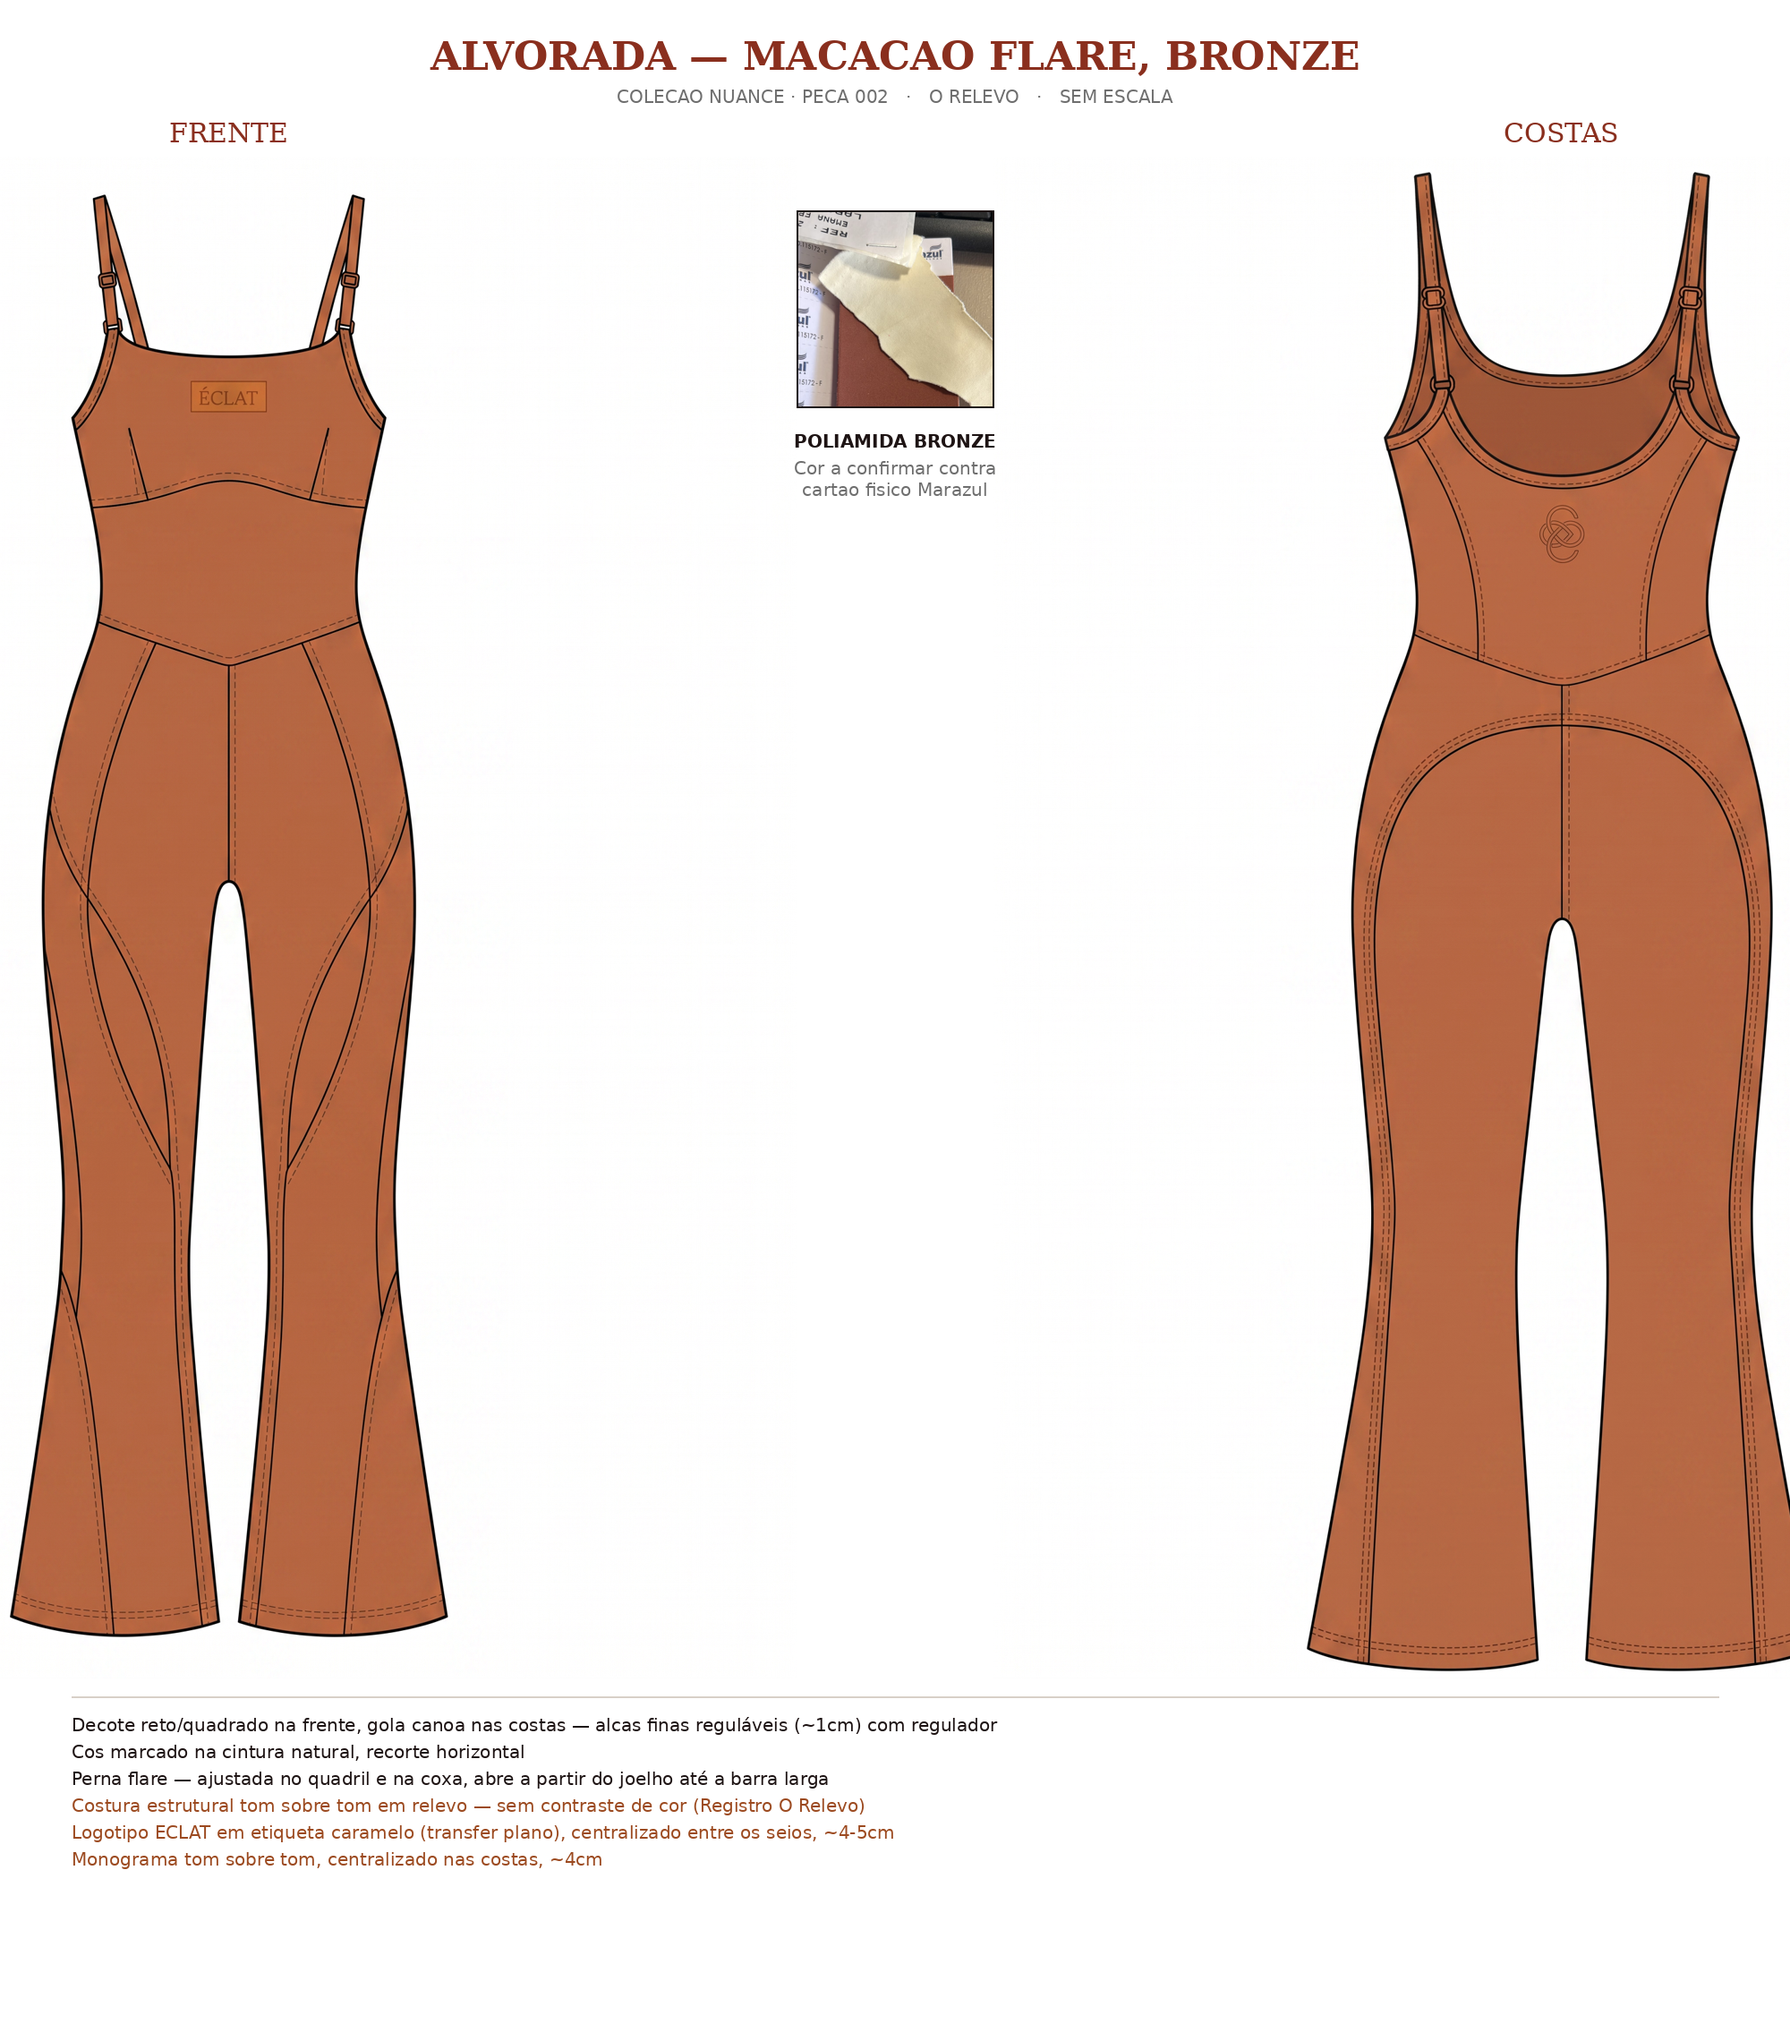
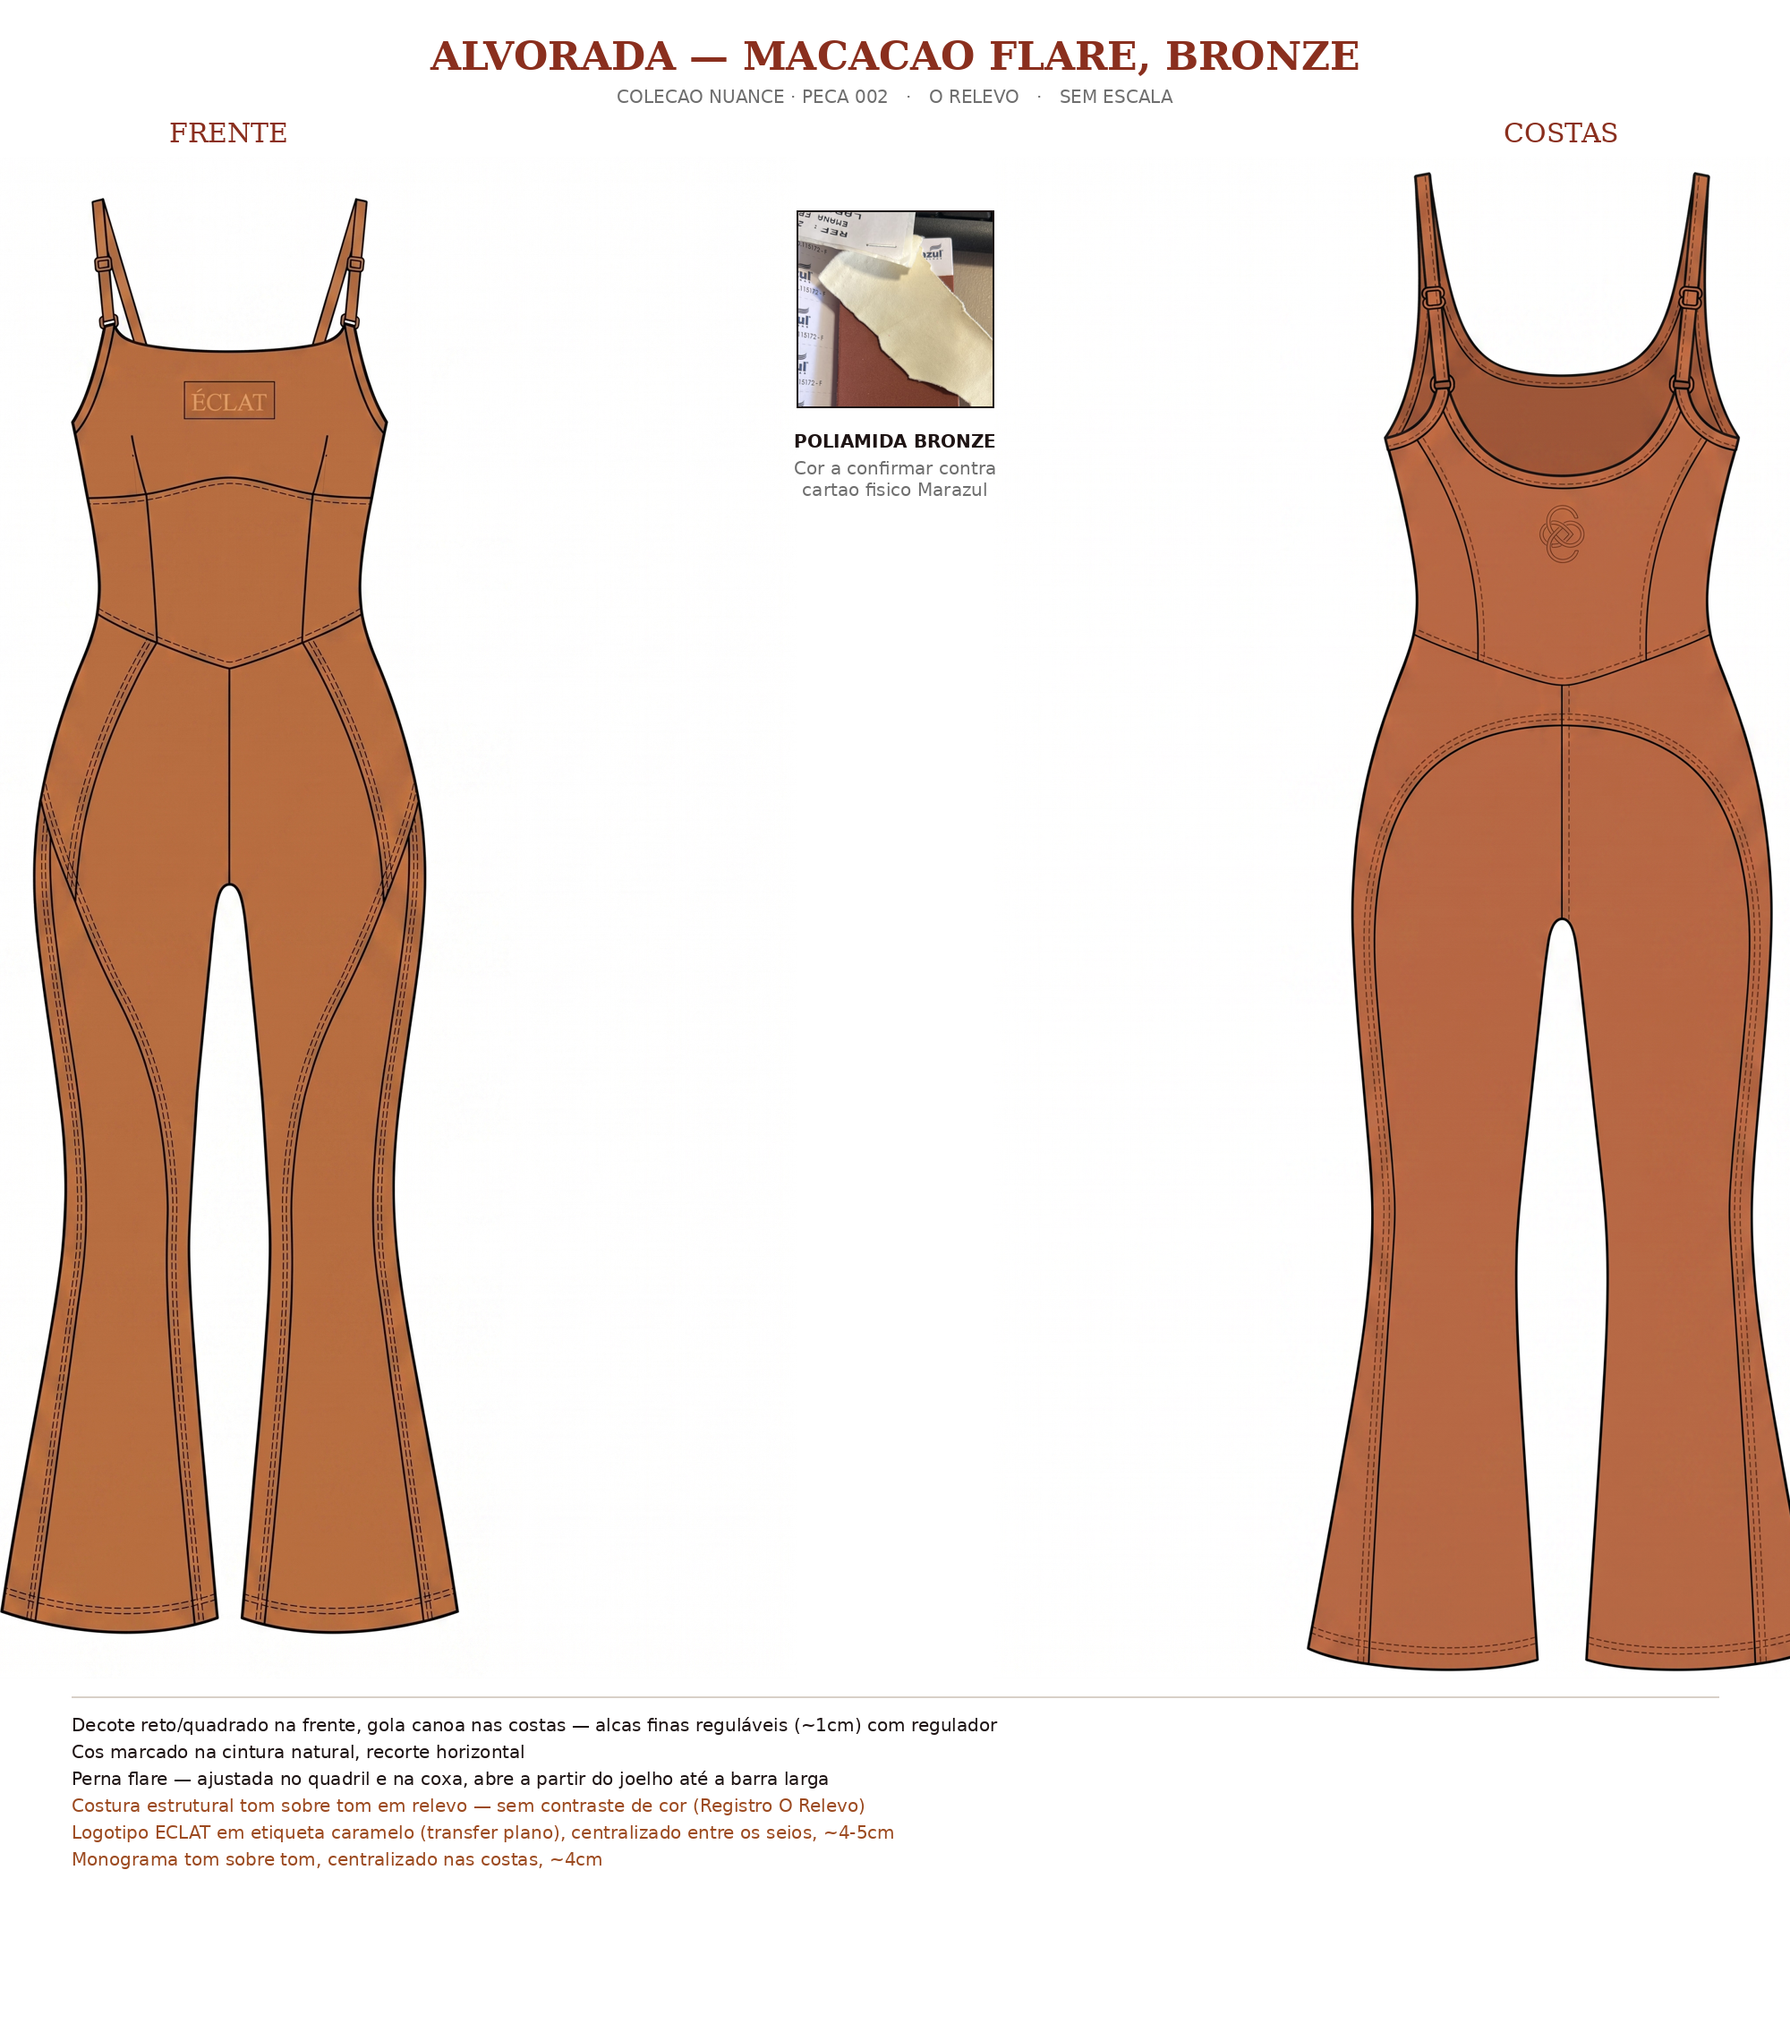
fix(eclat): remove costura excedente da perna no Alvorada, confirmado por detecção de borda
Quarta rodada de correção: o desenho técnico vinha desenhando duas
costuras por perna formando um recorte em grão (amêndoa) — na
realidade é uma costura só, com pesponto duplo (duas linhas de linha
bem próximas, não dois recortes de tecido). O excesso de linha estava
deixando o desenho poluído e fugindo da leitura limpa do padrão
Eclipse/Audaces.

Usei detecção de borda (edge detection) sobre a foto aprovada para
confirmar a contagem real de costuras antes de refazer, em vez de
seguir tentando de olho — método registrado para as próximas peças.

Changed region(s): [[0.0, 0.0934, 0.279, 0.8096]]

diff --git a/docs/eclat/COLECAO-002-NUANCE.md b/docs/eclat/COLECAO-002-NUANCE.md
@@ -113,11 +113,12 @@ A primeira geração tinha colocado o monograma no peito esquerdo — corrigido 
 - Render fotográfico costas — `fichas/macaquinhoA-bronze-costas.png`
 - Desenho técnico (croqui plano) — `fichas/tec_alvorada_flat.png`, montado por `fichas/compose-flat-alvorada.py`
 
-**Correção de fidelidade (duas rodadas):**
+**Correção de fidelidade (quatro rodadas):**
 
 1. A primeira versão simplificou a costura da frente para um cós reto e uma linha só por perna — a peça real tem um recorte curvo sob o busto, um segundo cós em V, e duas linhas por perna formando um desenho em grão na coxa antes de correr soltas até a barra.
 2. A segunda versão ainda errou o busto: desenhou uma curva única em formato coração fundindo dardo e costura. A peça real tem **dois sistemas de costura separados** — um dardo reto de cada lado, terminando em ponta, e abaixo dele, sem se conectar, uma costura quase reta (arco bem sutil) correndo de lado a lado. Corrigido comparando lado a lado com recortes bem próximos do render fotográfico aprovado, não só a peça inteira.
 3. A terceira rodada corrigiu dois erros a mais: na frente, as costuras das duas pernas estavam se fundindo no meio da barriga como se fosse um recorte só — a peça real tem uma costura central reta e independente, e cada perna com seu próprio recorte em grão, sem tocar a do lado. Nas costas, o cós tinha saído reto — a peça real tem uma curva suave descendo em direção ao centro, espelhando o V da frente.
+4. A quarta rodada corrigiu o excesso: o "recorte em grão" da rodada 3 ainda estava errado — cada perna não tem duas costuras formando uma amêndoa, tem **uma costura só, com pesponto duplo** (duas linhas de linha bem próximas, não dois recortes de tecido separados). Confirmado com detecção de borda sobre a foto aprovada antes de refazer — método que vale manter para próximas peças quando a leitura da costura ficar em dúvida.
 
 ### Pendências
 
